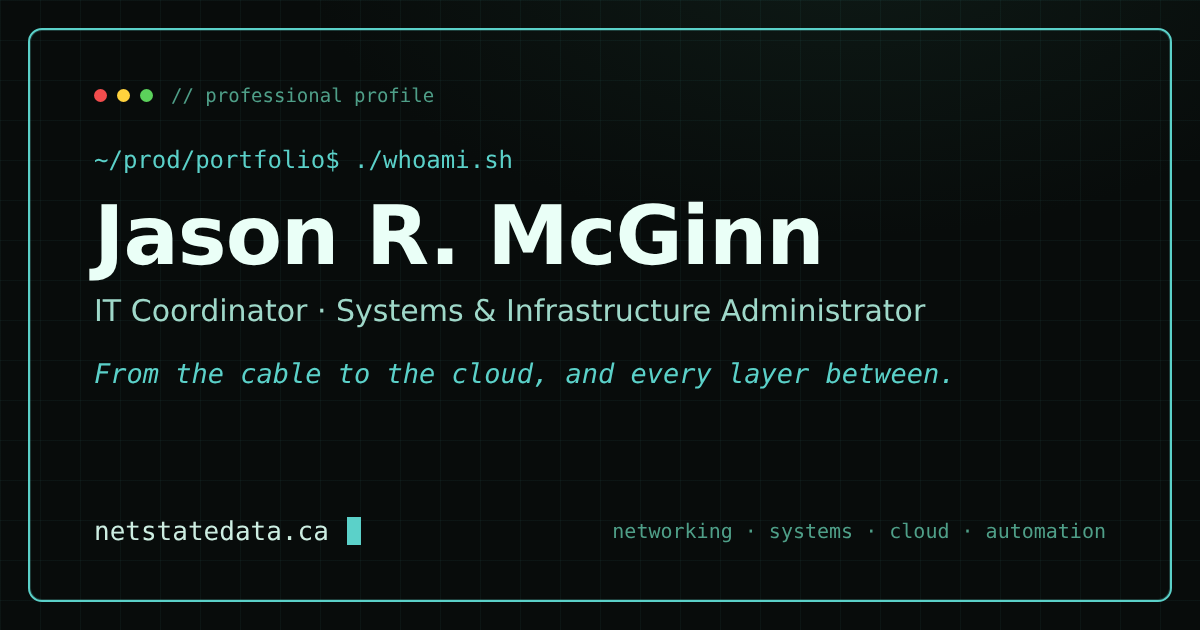
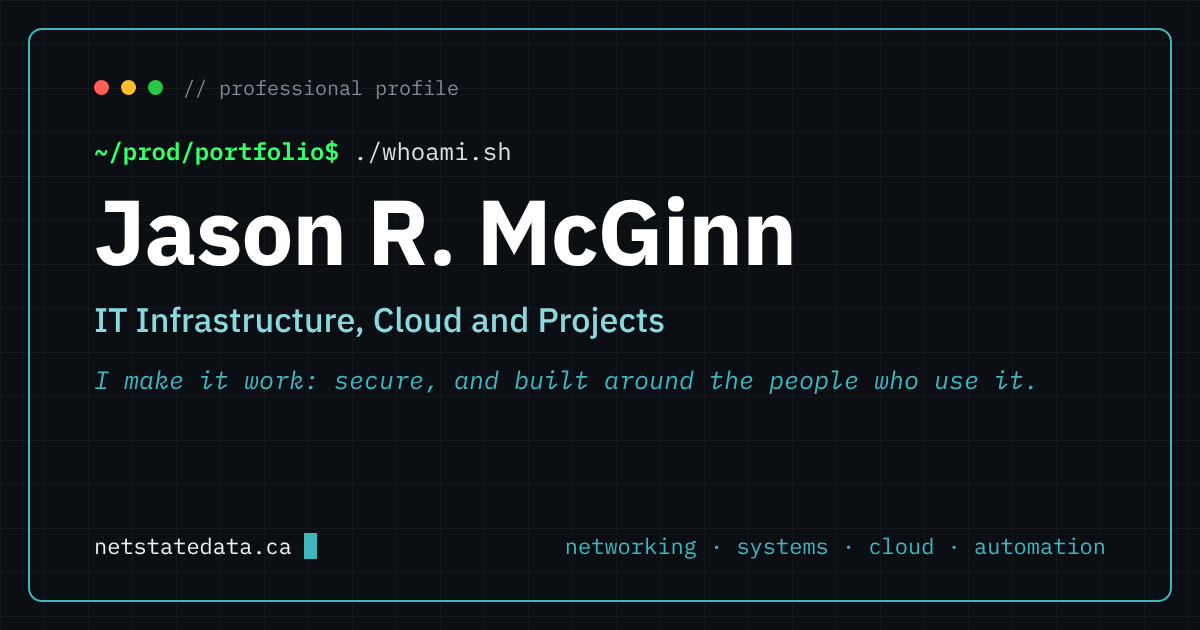
Live review fixes; hide unfinished pages; Field Service Ops overview; awareness training on the hero

diff --git a/site/layouts/index.html b/site/layouts/index.html
@@ -4,7 +4,7 @@
 
   <!-- HERO -->
   <section class="hero" style="border-top:none;">
-    <div class="term" role="img" aria-label="Terminal running whoami.sh: Jason R. McGinn, IT Infrastructure, Cloud and Projects. Certifications: Azure Fundamentals (AZ-900), Dynamics 365 Finance and Operations Fundamentals, CompTIA A+ and NB Instructional Certification. Seeking: Technical Lead, IT Coordinator, Infrastructure and Projects. Plans: Discovery, Solution Design, Scopes and Estimates. Delivers: Infrastructure Management and Services, Migrations, Tools and Automation, Documentation and Training. Works in: Microsoft Server and Cloud, Linux, Virtualization, Networks, SQL and Data, Scripting. Secures: Identity and Access, Firewalls, Encryption, Monitoring and Alerting, Auditing. Speaks: English and French. Status: available for work.">
+    <div class="term" role="img" aria-label="Terminal running whoami.sh: Jason R. McGinn, IT Infrastructure, Cloud and Projects. Certifications: Azure Fundamentals (AZ-900), Dynamics 365 Finance and Operations Fundamentals, CompTIA A+ and NB Instructional Certification. Seeking: Technical Lead, IT Coordinator, Infrastructure and Projects. Plans: Discovery, Solution Design, Scopes and Estimates. Delivers: Infrastructure Management and Services, Migrations, Tools and Automation, Documentation and Training. Works in: Microsoft Server and Cloud, Linux, Virtualization, Networks, SQL and Data, Scripting. Secures: Identity and Access, Firewalls, Encryption, Monitoring and Alerting, Auditing, Awareness Training. Speaks: English and French. Status: available for work.">
       <div class="term-bar">
         <span class="dot r"></span><span class="dot y"></span><span class="dot g"></span>
         {{ with site.GetPage "/projects/living-portfolio" }}<a class="term-title mono term-title-link" href="{{ .RelPermalink }}">// {{ .Title }}</a>{{ end }}
@@ -158,12 +158,12 @@
         <p>This site, run as a project. Every change passes a build check, only a versioned release goes live, each image is scanned, and any release can be rolled back.</p>
         <span class="go mono">see how it is built &#8594;</span>
       </a>
-      <div class="card card-svc">
+      <a class="card card-svc" href="/projects/field-service-ops/">
         <p class="where mono">Field service &middot; own tool</p>
         <h3>Field Service Ops</h3>
         <p>One app for a field technician's day: truck stock, cycle counts, tickets and shipping. It turns email notifications into tickets using pattern rules, and indexes service manuals to keep the parts kit current.</p>
-        <span class="go-note mono">ask for a walk-through</span>
-      </div>
+        <span class="go mono">see what it does &#8594;</span>
+      </a>
     </div>
     <p class="more-links mono"><a class="see-all" href="/projects/">all projects &#8594;</a><a class="see-all" href="/library/#documents">all documents &#8594;</a><a class="see-all" href="/library/#stories">all stories &#8594;</a><a class="see-all" href="/library/#layers">everything by OSI layer &#8594;</a></p>
   </section>
@@ -201,7 +201,7 @@
   <!-- CONTACT -->
   <section id="contact">
     <p class="sec-label">// 05 contact</p>
-    <div class="term" role="group" aria-label="Contact Jason R. McGinn: email JasonRMcGinn@proton.me, download resume, LinkedIn, GitHub. Open to Technical Lead, IT Coordinator and infrastructure roles in the Moncton area or remote.">
+    <div class="term" role="group" aria-label="Contact Jason R. McGinn: email JasonRMcGinn@proton.me, download resume, GitHub. Open to Technical Lead, IT Coordinator and infrastructure roles in the Moncton area or remote.">
       <div class="term-bar">
         <span class="dot r"></span><span class="dot y"></span><span class="dot g"></span>
         <span class="term-title mono" style="font-weight:700; font-size:1.02rem; color:var(--term-ink);">// reach me</span>
@@ -219,7 +219,6 @@
 <span class="bc-b" aria-hidden="true">║</span>                                              <span class="bc-b" aria-hidden="true">║</span>
 <span class="bc-b" aria-hidden="true">║</span> <span class="bc-k">email     </span><a class="bc-v" id="email" href="mailto:JasonRMcGinn@proton.me">JasonRMcGinn@proton.me</a>             <span class="bc-b" aria-hidden="true">║</span>
 <span class="bc-b" aria-hidden="true">║</span> <span class="bc-k">web       </span><a class="bc-v" id="" href="https://netstatedata.ca" target="_blank" rel="noopener">netstatedata.ca</a>                    <span class="bc-b" aria-hidden="true">║</span>
-<span class="bc-b" aria-hidden="true">║</span> <span class="bc-k">linkedin  </span><a class="bc-v" id="" href="https://www.linkedin.com/in/jason-mcginn-bb350711" target="_blank" rel="noopener">linkedin.com/in/jason-mcginn</a>       <span class="bc-b" aria-hidden="true">║</span>
 <span class="bc-b" aria-hidden="true">║</span> <span class="bc-k">github    </span><a class="bc-v" id="" href="https://github.com/jasonmcginn" target="_blank" rel="noopener">github.com/jasonmcginn</a>             <span class="bc-b" aria-hidden="true">║</span>
 <span class="bc-b" aria-hidden="true">╚══════════════════════════════════════════════╝</span></pre>
         <div class="o card-note"># open to roles in the Moncton area, or remote</div>

diff --git a/site/static/tetris/index.html b/site/static/tetris/index.html
@@ -80,40 +80,6 @@ space hard drop
   without the hunt? Open the Start menu &rarr; <b>Log on</b>, enter the password you found, and
   run <code>tetris</code> at the prompt. It brings you straight back here.</p>
 
-<script>
-(function(){
-  var COLS=10, ROWS=20, CELL=22;
-  var board=document.getElementById("board");
-  board.width=COLS*CELL; board.height=ROWS*CELL;
-  var over=document.getElementById("over");
-  var nextC=document.getElementById("next");
-  var ctx=board.getContext("2d"), nctx=nextC.getContext("2d");
-  var elScore=document.getElementById("score"), elLines=document.getElementById("lines"), elLevel=document.getElementById("level");
-  var COLORS=[null,"#5bd1c9","#ffd23d","#b06be0","#5bd15b","#f24d4d","#4da6ff","#f6a21e"];
-  var SHAPES={I:[[1,1,1,1]],O:[[2,2],[2,2]],T:[[0,3,0],[3,3,3]],S:[[0,4,4],[4,4,0]],Z:[[5,5,0],[0,5,5]],J:[[6,0,0],[6,6,6]],L:[[0,0,7],[7,7,7]]};
-  var KEYS=Object.keys(SHAPES);
-  var grid,cur,nextP,score,lines,level,dropMs,acc,last,raf,paused,dead,bag;
-
-  function bagNew(){ var b=KEYS.slice(); for(var i=b.length-1;i>0;i--){var j=Math.floor(Math.random()*(i+1)),t=b[i];b[i]=b[j];b[j]=t;} return b; }
-  function take(){ if(!bag||!bag.length) bag=bagNew(); return bag.pop(); }
-  function spawn(){ var k=nextP||take(); nextP=take(); var sh=SHAPES[k].map(function(r){return r.slice();}); cur={sh:sh,x:Math.floor((COLS-sh[0].length)/2),y:0}; if(hit(cur.sh,cur.x,cur.y)){dead=true;over.hidden=false;} drawNext(); }
-  function hit(sh,x,y){ for(var r=0;r<sh.length;r++)for(var c=0;c<sh[r].length;c++){ if(sh[r][c]){ var nx=x+c,ny=y+r; if(nx<0||nx>=COLS||ny>=ROWS) return true; if(ny>=0&&grid[ny][nx]) return true; } } return false; }
-  function rot(sh){ var R=sh[0].length,C=sh.length,o=[]; for(var r=0;r<R;r++){o[r]=[];for(var c=0;c<C;c++)o[r][c]=sh[C-1-c][r];} return o; }
-  function lock(){ for(var r=0;r<cur.sh.length;r++)for(var c=0;c<cur.sh[r].length;c++){ if(cur.sh[r][c]){ var ny=cur.y+r; if(ny>=0) grid[ny][cur.x+c]=cur.sh[r][c]; } } clearLines(); spawn(); }
-  function clearLines(){ var n=0; for(var r=ROWS-1;r>=0;r--){ if(grid[r].every(function(v){return v;})){ grid.splice(r,1); grid.unshift(new Array(COLS).fill(0)); n++; r++; } } if(n){ score+=[0,40,100,300,1200][n]*level; lines+=n; level=Math.floor(lines/10)+1; dropMs=Math.max(90,700-(level-1)*55); upd(); } }
-  function cellRect(x,y,ci,cell,cc){ cc.fillStyle=COLORS[ci]; cc.fillRect(x*cell,y*cell,cell,cell); cc.fillStyle="rgba(255,255,255,.14)"; cc.fillRect(x*cell,y*cell,cell,3); cc.strokeStyle="rgba(0,0,0,.4)"; cc.strokeRect(x*cell+.5,y*cell+.5,cell-1,cell-1); }
-  function draw(){ ctx.fillStyle="#040807"; ctx.fillRect(0,0,board.width,board.height); for(var r=0;r<ROWS;r++)for(var c=0;c<COLS;c++){ if(grid[r][c]) cellRect(c,r,grid[r][c],CELL,ctx); } if(cur) for(var rr=0;rr<cur.sh.length;rr++)for(var cc2=0;cc2<cur.sh[rr].length;cc2++){ if(cur.sh[rr][cc2]){ var yy=cur.y+rr; if(yy>=0) cellRect(cur.x+cc2,yy,cur.sh[rr][cc2],CELL,ctx); } } }
-  function drawNext(){ nctx.fillStyle="#040807"; nctx.fillRect(0,0,nextC.width,nextC.height); if(!nextP) return; var sh=SHAPES[nextP],cell=16,ox=(4-sh[0].length)/2,oy=(4-sh.length)/2; for(var r=0;r<sh.length;r++)for(var c=0;c<sh[r].length;c++){ if(sh[r][c]) cellRect(c+ox,r+oy,sh[r][c],cell,nctx); } }
-  function upd(){ elScore.textContent=score; elLines.textContent=lines; elLevel.textContent=level; }
-  function reset(){ grid=[]; for(var r=0;r<ROWS;r++) grid.push(new Array(COLS).fill(0)); score=0;lines=0;level=1;dropMs=700;acc=0;last=0;dead=false;paused=false;bag=bagNew();nextP=null;over.hidden=true; spawn(); upd(); draw(); }
-  function loop(t){ raf=requestAnimationFrame(loop); if(dead){ return; } if(paused){ last=t; return; } if(!last)last=t; acc+=t-last; last=t; if(acc>=dropMs){ acc=0; if(!hit(cur.sh,cur.x,cur.y+1)) cur.y++; else lock(); } draw(); }
-  function key(e){ if(dead){ if(e.key==="Enter") reset(); return; } var k=e.key; if(k==="ArrowLeft"){ if(!hit(cur.sh,cur.x-1,cur.y))cur.x--; e.preventDefault(); } else if(k==="ArrowRight"){ if(!hit(cur.sh,cur.x+1,cur.y))cur.x++; e.preventDefault(); } else if(k==="ArrowDown"){ if(!hit(cur.sh,cur.x,cur.y+1)){cur.y++;}else lock(); e.preventDefault(); } else if(k==="ArrowUp"){ var r=rot(cur.sh),ks=[0,-1,1,-2,2]; for(var i=0;i<ks.length;i++){ if(!hit(r,cur.x+ks[i],cur.y)){cur.sh=r;cur.x+=ks[i];break;} } e.preventDefault(); } else if(k===" "){ while(!hit(cur.sh,cur.x,cur.y+1)){cur.y++;} lock(); e.preventDefault(); } else if(k==="p"||k==="P"){ paused=!paused; } draw(); }
-
-  document.addEventListener("keydown",key);
-  document.getElementById("restart").addEventListener("click",reset);
-  document.getElementById("startBtn").addEventListener("click",reset);
-  reset(); raf=requestAnimationFrame(loop);
-})();
-</script>
+<script src="game.js"></script>
 </body>
 </html>

diff --git a/site/static/tetris/game.js b/site/static/tetris/game.js
@@ -1,0 +1,33 @@
+(function(){
+  var COLS=10, ROWS=20, CELL=22;
+  var board=document.getElementById("board");
+  board.width=COLS*CELL; board.height=ROWS*CELL;
+  var over=document.getElementById("over");
+  var nextC=document.getElementById("next");
+  var ctx=board.getContext("2d"), nctx=nextC.getContext("2d");
+  var elScore=document.getElementById("score"), elLines=document.getElementById("lines"), elLevel=document.getElementById("level");
+  var COLORS=[null,"#5bd1c9","#ffd23d","#b06be0","#5bd15b","#f24d4d","#4da6ff","#f6a21e"];
+  var SHAPES={I:[[1,1,1,1]],O:[[2,2],[2,2]],T:[[0,3,0],[3,3,3]],S:[[0,4,4],[4,4,0]],Z:[[5,5,0],[0,5,5]],J:[[6,0,0],[6,6,6]],L:[[0,0,7],[7,7,7]]};
+  var KEYS=Object.keys(SHAPES);
+  var grid,cur,nextP,score,lines,level,dropMs,acc,last,raf,paused,dead,bag;
+
+  function bagNew(){ var b=KEYS.slice(); for(var i=b.length-1;i>0;i--){var j=Math.floor(Math.random()*(i+1)),t=b[i];b[i]=b[j];b[j]=t;} return b; }
+  function take(){ if(!bag||!bag.length) bag=bagNew(); return bag.pop(); }
+  function spawn(){ var k=nextP||take(); nextP=take(); var sh=SHAPES[k].map(function(r){return r.slice();}); cur={sh:sh,x:Math.floor((COLS-sh[0].length)/2),y:0}; if(hit(cur.sh,cur.x,cur.y)){dead=true;over.hidden=false;} drawNext(); }
+  function hit(sh,x,y){ for(var r=0;r<sh.length;r++)for(var c=0;c<sh[r].length;c++){ if(sh[r][c]){ var nx=x+c,ny=y+r; if(nx<0||nx>=COLS||ny>=ROWS) return true; if(ny>=0&&grid[ny][nx]) return true; } } return false; }
+  function rot(sh){ var R=sh[0].length,C=sh.length,o=[]; for(var r=0;r<R;r++){o[r]=[];for(var c=0;c<C;c++)o[r][c]=sh[C-1-c][r];} return o; }
+  function lock(){ for(var r=0;r<cur.sh.length;r++)for(var c=0;c<cur.sh[r].length;c++){ if(cur.sh[r][c]){ var ny=cur.y+r; if(ny>=0) grid[ny][cur.x+c]=cur.sh[r][c]; } } clearLines(); spawn(); }
+  function clearLines(){ var n=0; for(var r=ROWS-1;r>=0;r--){ if(grid[r].every(function(v){return v;})){ grid.splice(r,1); grid.unshift(new Array(COLS).fill(0)); n++; r++; } } if(n){ score+=[0,40,100,300,1200][n]*level; lines+=n; level=Math.floor(lines/10)+1; dropMs=Math.max(90,700-(level-1)*55); upd(); } }
+  function cellRect(x,y,ci,cell,cc){ cc.fillStyle=COLORS[ci]; cc.fillRect(x*cell,y*cell,cell,cell); cc.fillStyle="rgba(255,255,255,.14)"; cc.fillRect(x*cell,y*cell,cell,3); cc.strokeStyle="rgba(0,0,0,.4)"; cc.strokeRect(x*cell+.5,y*cell+.5,cell-1,cell-1); }
+  function draw(){ ctx.fillStyle="#040807"; ctx.fillRect(0,0,board.width,board.height); for(var r=0;r<ROWS;r++)for(var c=0;c<COLS;c++){ if(grid[r][c]) cellRect(c,r,grid[r][c],CELL,ctx); } if(cur) for(var rr=0;rr<cur.sh.length;rr++)for(var cc2=0;cc2<cur.sh[rr].length;cc2++){ if(cur.sh[rr][cc2]){ var yy=cur.y+rr; if(yy>=0) cellRect(cur.x+cc2,yy,cur.sh[rr][cc2],CELL,ctx); } } }
+  function drawNext(){ nctx.fillStyle="#040807"; nctx.fillRect(0,0,nextC.width,nextC.height); if(!nextP) return; var sh=SHAPES[nextP],cell=16,ox=(4-sh[0].length)/2,oy=(4-sh.length)/2; for(var r=0;r<sh.length;r++)for(var c=0;c<sh[r].length;c++){ if(sh[r][c]) cellRect(c+ox,r+oy,sh[r][c],cell,nctx); } }
+  function upd(){ elScore.textContent=score; elLines.textContent=lines; elLevel.textContent=level; }
+  function reset(){ grid=[]; for(var r=0;r<ROWS;r++) grid.push(new Array(COLS).fill(0)); score=0;lines=0;level=1;dropMs=700;acc=0;last=0;dead=false;paused=false;bag=bagNew();nextP=null;over.hidden=true; spawn(); upd(); draw(); }
+  function loop(t){ raf=requestAnimationFrame(loop); if(dead){ return; } if(paused){ last=t; return; } if(!last)last=t; acc+=t-last; last=t; if(acc>=dropMs){ acc=0; if(!hit(cur.sh,cur.x,cur.y+1)) cur.y++; else lock(); } draw(); }
+  function key(e){ if(dead){ if(e.key==="Enter") reset(); return; } var k=e.key; if(k==="ArrowLeft"){ if(!hit(cur.sh,cur.x-1,cur.y))cur.x--; e.preventDefault(); } else if(k==="ArrowRight"){ if(!hit(cur.sh,cur.x+1,cur.y))cur.x++; e.preventDefault(); } else if(k==="ArrowDown"){ if(!hit(cur.sh,cur.x,cur.y+1)){cur.y++;}else lock(); e.preventDefault(); } else if(k==="ArrowUp"){ var r=rot(cur.sh),ks=[0,-1,1,-2,2]; for(var i=0;i<ks.length;i++){ if(!hit(r,cur.x+ks[i],cur.y)){cur.sh=r;cur.x+=ks[i];break;} } e.preventDefault(); } else if(k===" "){ while(!hit(cur.sh,cur.x,cur.y+1)){cur.y++;} lock(); e.preventDefault(); } else if(k==="p"||k==="P"){ paused=!paused; } draw(); }
+
+  document.addEventListener("keydown",key);
+  document.getElementById("restart").addEventListener("click",reset);
+  document.getElementById("startBtn").addEventListener("click",reset);
+  reset(); raf=requestAnimationFrame(loop);
+})();

diff --git a/site/static/js/app.js b/site/static/js/app.js
@@ -77,7 +77,7 @@
     {t:'kv', k:'plans     ', x:'Discovery · Solution Design · Scopes and Estimates'},
     {t:'kv', k:'delivers  ', x:'Infrastructure Management and Services · Migrations · Tools and Automation · Documentation and Training'},
     {t:'kv', k:'works in  ', x:'Microsoft Server and Cloud · Linux · Virtualization · Networks · SQL and Data · Scripting'},
-    {t:'kv', k:'secures   ', x:'Identity and Access · Firewalls · Encryption · Monitoring and Alerting · Auditing'},
+    {t:'kv', k:'secures   ', x:'Identity and Access · Firewalls · Encryption · Monitoring and Alerting · Auditing · Awareness Training'},
     {t:'kv', k:'speaks    ', x:'English · French'},
     {t:'gap'},
     {t:'status', x:'available for work'},
@@ -100,7 +100,7 @@
     return '\n';
   }
   if(reduced){ body.innerHTML=lines.map(lineHTML).join('')+'<span class="caret"></span>'; return; }
-  var i=0, out='', finished=false, warned=false;
+  var i=0, out='', finished=false;
   function render(){ body.innerHTML=out+'<span class="caret"></span>'; }
   function delay(t){
     if(t==='art') return 480;
@@ -118,27 +118,39 @@
     })();
   }
   function step(){
-    if(i>=lines.length){ finished=true; render(); return; }
+    if(i>=lines.length){ finished=true; render(); body.style.minHeight=''; return; }
     var l=lines[i];
     if(l.t==='cmd'){ typeCmd(l); return; }
     if(l.t==='gap'){ out+='\n'; i++; render(); setTimeout(step,240); return; }
     out+=lineHTML(l); i++; render();
     setTimeout(step, delay(l.t));
   }
-  var rT;
-  window.addEventListener('resize', function(){
+  // Reserve the terminal's final height while it types, so the page below does not jump.
+  // Measured on a hidden copy at the terminal's real width, and measured again whenever
+  // that width changes (window resized, phone rotated, a pane still opening at load).
+  function measure(){
+    if(finished){ body.style.minHeight=''; return; }
+    var w=body.offsetWidth;
+    if(w<160){ body.style.minHeight=''; return; }   // not laid out yet: reserve nothing
+    var ghost=body.cloneNode(false);
+    ghost.removeAttribute('id');
+    ghost.style.cssText='position:absolute;left:-9999px;top:0;visibility:hidden;pointer-events:none;min-height:0;width:'+w+'px';
+    ghost.innerHTML=lines.map(lineHTML).join('')+'<span class="caret"></span>';
+    body.parentNode.appendChild(ghost);
+    var h=ghost.offsetHeight;
+    body.parentNode.removeChild(ghost);
+    body.style.minHeight=h+'px';
+  }
+  var rT, lastW=0;
+  function remeasure(){
     clearTimeout(rT);
-    rT=setTimeout(function(){
-      if(!finished || warned) return;
-      warned=true;
-      body.style.minHeight='';
-      body.innerHTML=out+'\n<span class="t-err">[!] display resized - refresh the page to redraw properly</span>\n<span class="p">'+P+'</span> <span class="caret"></span>';
-    },300);
-  });
+    rT=setTimeout(function(){ var w=body.offsetWidth; if(w!==lastW){ lastW=w; measure(); } },150);
+  }
+  window.addEventListener('resize', remeasure);
+  if(window.ResizeObserver){ try{ new ResizeObserver(remeasure).observe(body.parentNode); }catch(_){} }
   function measureStart(){
-    body.innerHTML=lines.map(lineHTML).join('')+'<span class="caret"></span>';
-    body.style.minHeight=body.offsetHeight+'px';
-    body.innerHTML='';
+    lastW=body.offsetWidth;
+    measure();
     setTimeout(step,450);
   }
   if(document.fonts&&document.fonts.ready){ document.fonts.ready.then(measureStart); } else { measureStart(); }

diff --git a/site/assets/css/main.css b/site/assets/css/main.css
@@ -767,6 +767,8 @@
   .flow .flow-in{display:flex; flex-wrap:wrap; align-items:center; gap:8px 10px;}
   .cards2{display:grid; grid-template-columns:repeat(auto-fit,minmax(230px,1fr)); gap:14px; margin:16px 0 10px;}
   .cards2.c3{grid-template-columns:repeat(3,1fr);}
+  .story-body:not(.sv2) .cards2 p{margin:0 0 10px; font-size:1rem; line-height:1.6; color:var(--ink-soft);}
+  .story-body:not(.sv2) .cards2 p.k{font-family:'IBM Plex Mono',monospace; color:var(--amber); font-size:.72rem; letter-spacing:.08em; text-transform:uppercase; margin:0 0 6px;}
   @media (max-width:860px){ .cards2.c3{grid-template-columns:repeat(auto-fit,minmax(230px,1fr));} }
   .xwin-body .cards2.c3{grid-template-columns:repeat(2,1fr);}
   .cards2 > div{background:var(--panel); border:1px solid var(--line); border-radius:12px; padding:18px 20px 8px;}
@@ -781,3 +783,20 @@
   .related + .digdeeper{margin-top:22px;}
   /* inside a taskbar window the column is narrow: stack the cards */
   .xwin-body .feat{grid-template-columns:1fr;}
+
+  /* ===== phones: headline first, then where to go, then the terminal ===== */
+  .index-4 .idx-d{display:block; overflow:visible; -webkit-line-clamp:unset;}
+  @media (max-width:640px){
+    .hero-headline{order:1;}
+    .hero-sub{order:2;}
+    .hero .index-grid{order:3;}
+    .hero .term{order:4;}
+    /* floating resume and email: icons only, stacked in the corner, so they stop covering the text */
+    .floater{right:8px; bottom:46px; top:auto; flex-direction:column; align-items:flex-end; gap:8px;}
+    .float-btn{padding:6px; gap:0; border-radius:50%;}
+    .float-btn .float-label{display:none;}
+    .float-btn svg{width:30px; height:30px;}
+  }
+
+  /* 404 page */
+  .nf-links{display:flex; flex-wrap:wrap; gap:10px; margin:20px 0 6px;}

diff --git a/site/layouts/404.html b/site/layouts/404.html
@@ -1,0 +1,24 @@
+{{ define "main" }}
+<div class="storyview"><div class="wrap story">
+  <p class="story-where mono">// 404 &middot; not found</p>
+  <h1>That page isn't here.</h1>
+  <p class="hook">The link may be old, or the address may have a typo.</p>
+  <div class="term">
+    <div class="term-bar">
+      <span class="dot r"></span><span class="dot y"></span><span class="dot g"></span>
+      <span class="term-title mono">// not found</span>
+    </div>
+    <div class="term-body mono bizbody">
+      <div class="bizline"><span class="p">~/prod/portfolio$</span> cat ./that-page</div>
+      <div class="bizline"><span class="t-err">cat: ./that-page: No such file or directory</span></div>
+      <div class="bizline"><span class="p">~/prod/portfolio$</span> <span class="caret" aria-hidden="true"></span></div>
+    </div>
+  </div>
+  <div class="nf-links">
+    <a class="btn primary" href="/">home</a>
+    <a class="btn" href="/#services">what I take on</a>
+    <a class="btn" href="/projects/">projects</a>
+    <a class="btn" href="/library/">library</a>
+  </div>
+</div></div>
+{{ end }}

diff --git a/site/layouts/partials/head.html b/site/layouts/partials/head.html
@@ -1,10 +1,10 @@
 <meta charset="utf-8">
 <meta name="viewport" content="width=device-width, initial-scale=1">
-<title>{{ if .IsHome }}{{ .Site.Title }} · {{ .Site.Params.owner }}{{ else }}{{ .Title }} · {{ .Site.Title }}{{ end }}</title>
+<title>{{ if .IsHome }}{{ .Site.Params.owner }} · {{ .Site.Params.role }}{{ else }}{{ .Title }} · {{ .Site.Title }}{{ end }}</title>
 <meta name="description" content="{{ with .Description }}{{ . }}{{ else }}{{ .Site.Params.description }}{{ end }}">
 
 {{/* social share preview (Open Graph + Twitter Card) */}}
-{{ $sTitle := cond .IsHome (printf "%s · %s" .Site.Title .Site.Params.owner) (printf "%s · %s" .Title .Site.Title) }}
+{{ $sTitle := cond .IsHome (printf "%s · %s" .Site.Params.owner .Site.Params.role) (printf "%s · %s" .Title .Site.Title) }}
 {{ $sDesc := .Description }}
 {{ if not $sDesc }}{{ with .Params.summary }}{{ $sDesc = . }}{{ end }}{{ end }}
 {{ if not $sDesc }}{{ $sDesc = .Site.Params.description }}{{ end }}

diff --git a/site/layouts/partials/winchrome.html b/site/layouts/partials/winchrome.html
@@ -3,7 +3,7 @@
   <div class="winbar-title">
     <span class="winbar-ico"><i></i><i></i><i></i><i></i></span>
     <span class="wb-full">NetState Data &middot; Professional Profile</span>
-    <span class="wb-short">NetState Data</span>
+    <span class="wb-short">Jason R. McGinn &middot; NetState Data</span>
   </div>
   <div class="winbar-ctl">
     <button class="wb" type="button" tabindex="-1" aria-hidden="true">&#95;</button>

diff --git a/site/content/projects/field-service-ops.md b/site/content/projects/field-service-ops.md
@@ -1,0 +1,46 @@
+---
+title: "Field Service Ops"
+summary: "One app for a field technician's day: truck stock, cycle counts, tickets and shipping."
+hook: "One app for a field technician's day, built to remove the overhead of filling out forms and templates."
+layers: ["X3", "L7"]
+topics: []
+status: "live"
+quiet: true
+visibility: "public"
+builds_on: []
+related: []
+weight: 15
+pdf: ""
+links: []
+---
+
+## What this is
+
+One app for a field technician's day: truck stock, cycle counts, tickets and shipping. I built it for my own field work, to remove the overhead of filling out forms and templates.
+
+## What it does
+
+<div class="cards2 c3">
+<div>
+<p class="k">Tickets from email</p>
+<p>It reads a dedicated notifications folder in my inbox. Pattern rules identify each notification, and the app creates or updates the ticket.</p>
+</div>
+<div>
+<p class="k">Stock, counts and shipping</p>
+<p>Truck stock, cycle counts and shipping sit in the same app as the tickets.</p>
+</div>
+<div>
+<p class="k">A parts kit kept current</p>
+<p>A built-in product database has a service manual indexer. It extracts part details and updates the kit items.</p>
+</div>
+</div>
+
+## How it runs
+
+It runs in Docker with encrypted data, and it has a phone app. It is documented with a decisions log and a walk-through guide.
+
+## See it
+
+This one isn't published. Ask for a walk-through and I'll show it running.
+
+<div class="actions"><a class="btn primary" href="mailto:JasonRMcGinn@proton.me?subject=Field%20Service%20Ops%20walk-through">ask for a walk-through</a></div>

diff --git a/site/content/about.md b/site/content/about.md
@@ -10,7 +10,6 @@ description: "Jason R. McGinn away from the keyboard, and what NetState Data is.
     <p>I'm a maker at heart. I like building things that have a real use and purpose, with a design that is both elegant and functional. When I'm away from the keyboard I'm usually in the woods, or out in the shop making something with my hands.</p>
     <p>A lot of that happens at the CNC, where I enjoy the design side as much as the carving. I designed my own cribbage board and have sold dozens of them. I also turn and carve bowls, pens, and plenty of other woodworking projects, tons of them over the years. And I love dogs.</p>
     <p class="q">It's the same instinct that shapes how I build systems. I want what I make to last, and to actually get used. It's not a success until the end user is happy.</p>
-    <p style="margin-top:18px;"><a class="btn" href="/woodwork/">see some of my work</a></p>
   </div>
   <section id="netstate" class="beyond about">
     <p class="sec-label">// about NetState Data</p>

diff --git a/site/content/projects/agent-workflow.md b/site/content/projects/agent-workflow.md
@@ -1,4 +1,5 @@
 ---
+draft: true
 title: "agent-workflow"
 summary: "A junior admin team of local AI agents, each with one job, that finds problems, explains them and routes them to the right person. The agents change nothing; a person decides every action."
 hook: "One agent that watches is a start. This project gives the lab a team: agents that alert, troubleshoot, communicate and write code, working together in one orchestrated workflow, with a person approving anything that changes the system."

diff --git a/site/content/documents/agent-workflow-design.md b/site/content/documents/agent-workflow-design.md
@@ -1,4 +1,5 @@
 ---
+draft: true
 title: "agent-workflow: roles, approvals and orchestration"
 summary: "What each agent is allowed to see and do, how work passes between them, how approval works for any change, how every step is logged, and what the agents must never touch."
 hook: ""
